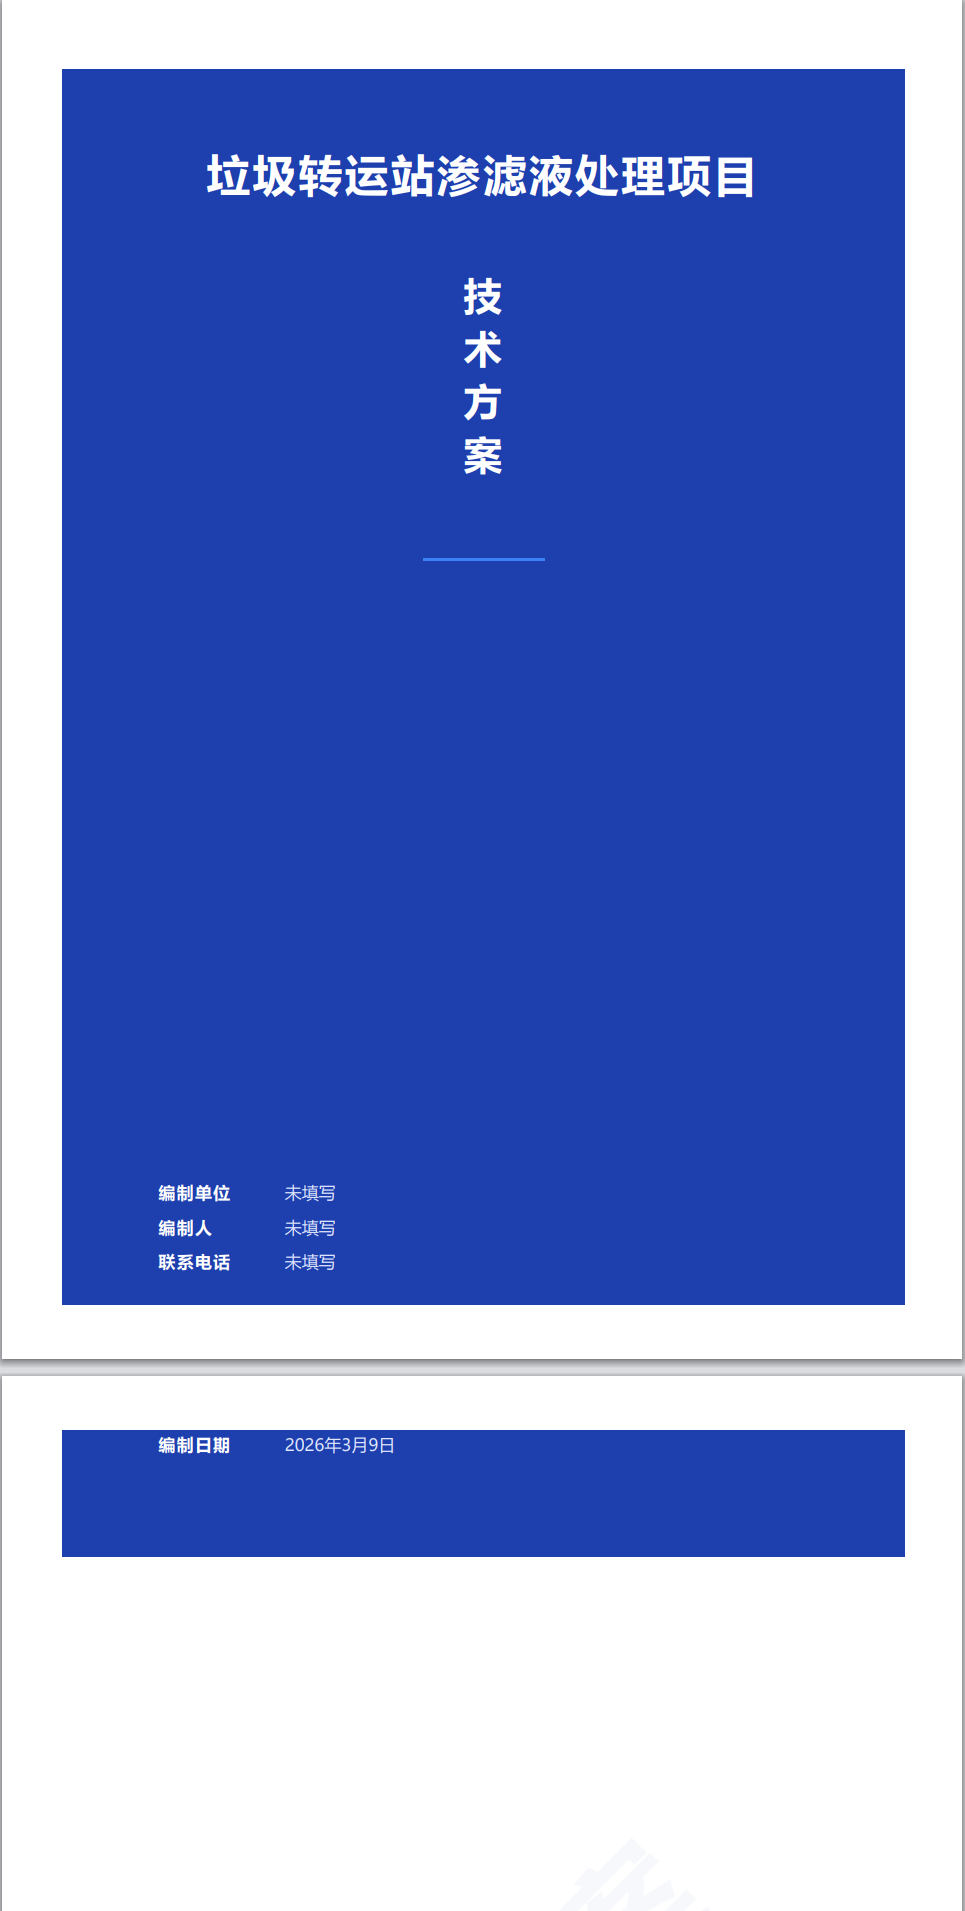
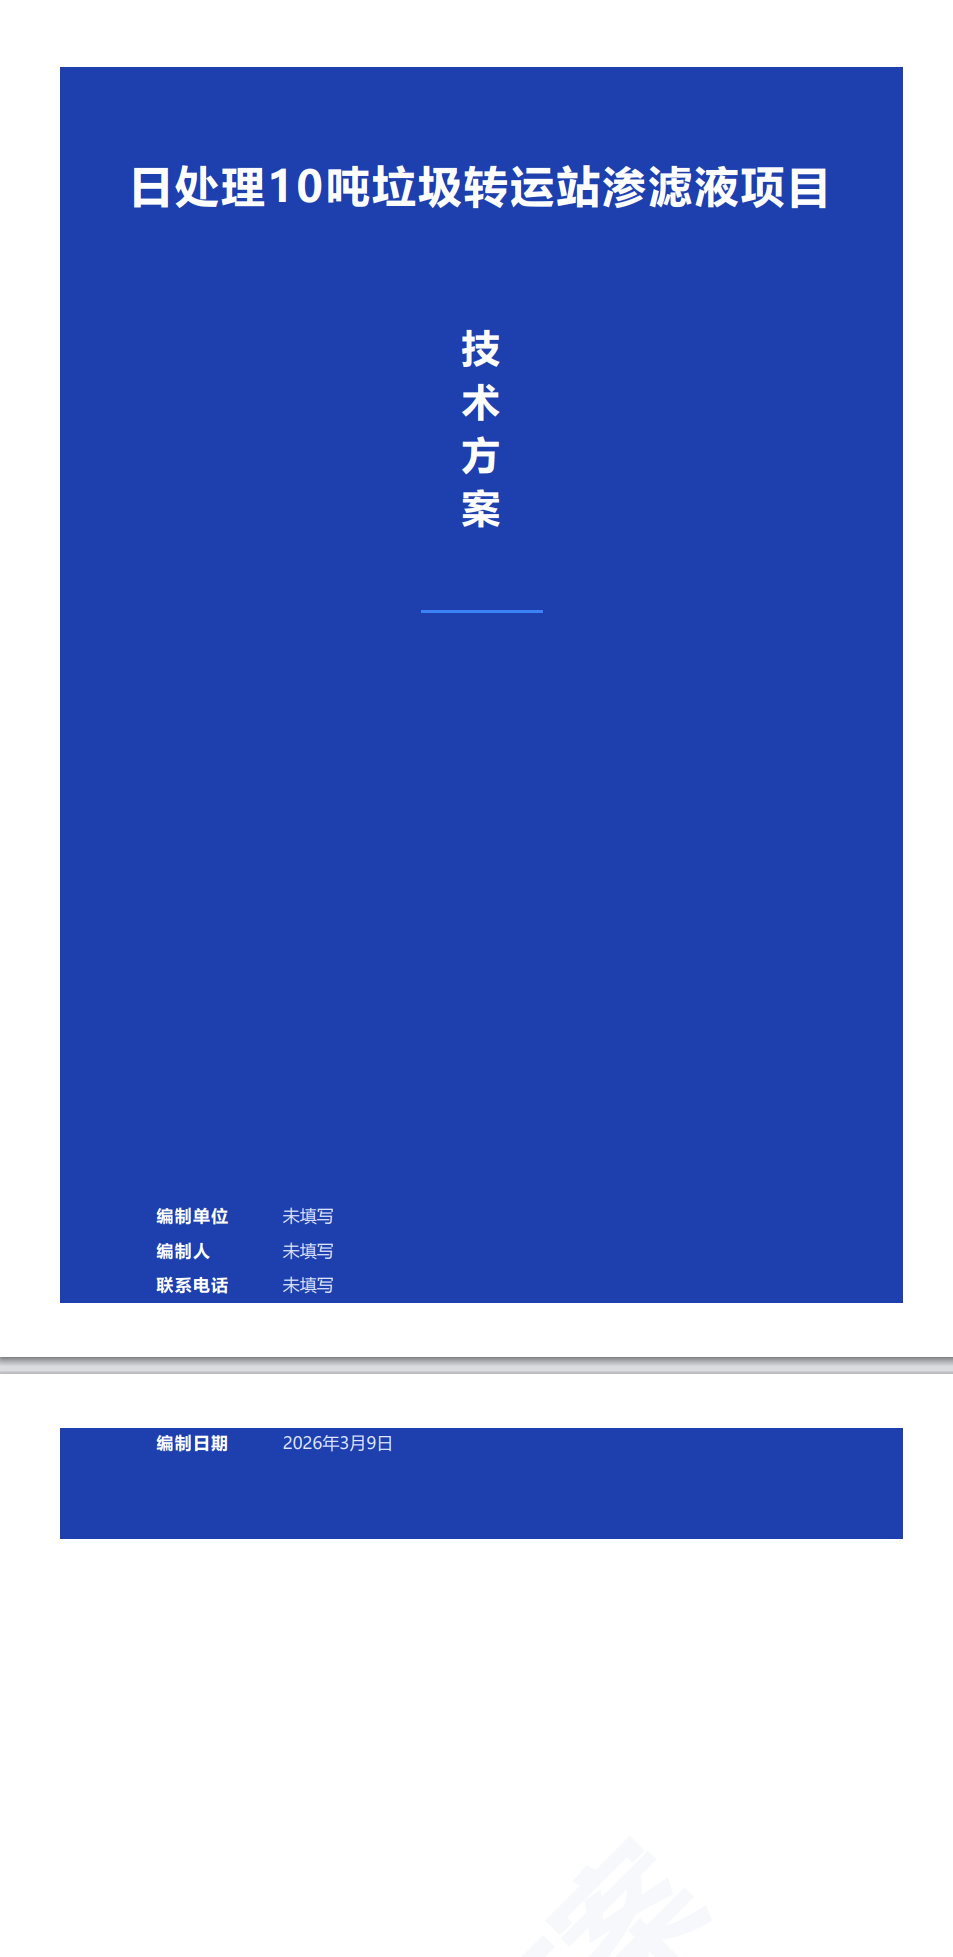
feat: 深度优化封面布局 - 彻底修复编制信息超出与竖排文字位置
- 大幅减少底部padding：从20px减少到5px，顶部padding设为10px，彻底解决编制信息超出范围问题
- 显著下移竖排文字：margin-top从40px增加到80px，使其真正均匀分布在主标题与编制信息之间
- 紧凑编制信息间距：行高从2.2减少到2.0，margin从5px减少到3px，确保信息不超出
- 添加justify-content: flex-start到顶部区域，确保布局从顶部开始
- 确保封面独占一页，编制信息完全在范围内

Changed region(s): [[0.0, 0.0, 1.0, 1.0], [0.1217, 0.0617, 0.8825, 0.2779], [0.0609, 0.0309, 0.0913, 0.0617]]

diff --git a/src/components/chat-message.tsx b/src/components/chat-message.tsx
@@ -1734,6 +1734,7 @@ export default function ChatMessage({
       display: flex;
       flex-direction: column;
       align-items: center;
+      justify-content: flex-start;
       padding-top: 30px;
     }
     
@@ -1753,7 +1754,7 @@ export default function ChatMessage({
       color: #ffffff;
       letter-spacing: 12px;
       height: 250px;
-      margin: 40px auto 0;
+      margin: 80px auto 0;
       font-weight: bold;
       line-height: 1.5;
     }
@@ -1767,20 +1768,20 @@ export default function ChatMessage({
     
     /* 封面底部区域 */
     .cover-bottom {
-      padding: 0 80px 20px 80px;
+      padding: 10px 80px 5px 80px;
       text-align: left;
     }
     
     .cover-info {
       font-size: 13px;
       color: #e0e7ff;
-      line-height: 2.2;
+      line-height: 2.0;
       text-align: left;
     }
     
     .cover-info p {
       text-indent: 0;
-      margin: 5px 0;
+      margin: 3px 0;
       color: #e0e7ff;
     }
     
